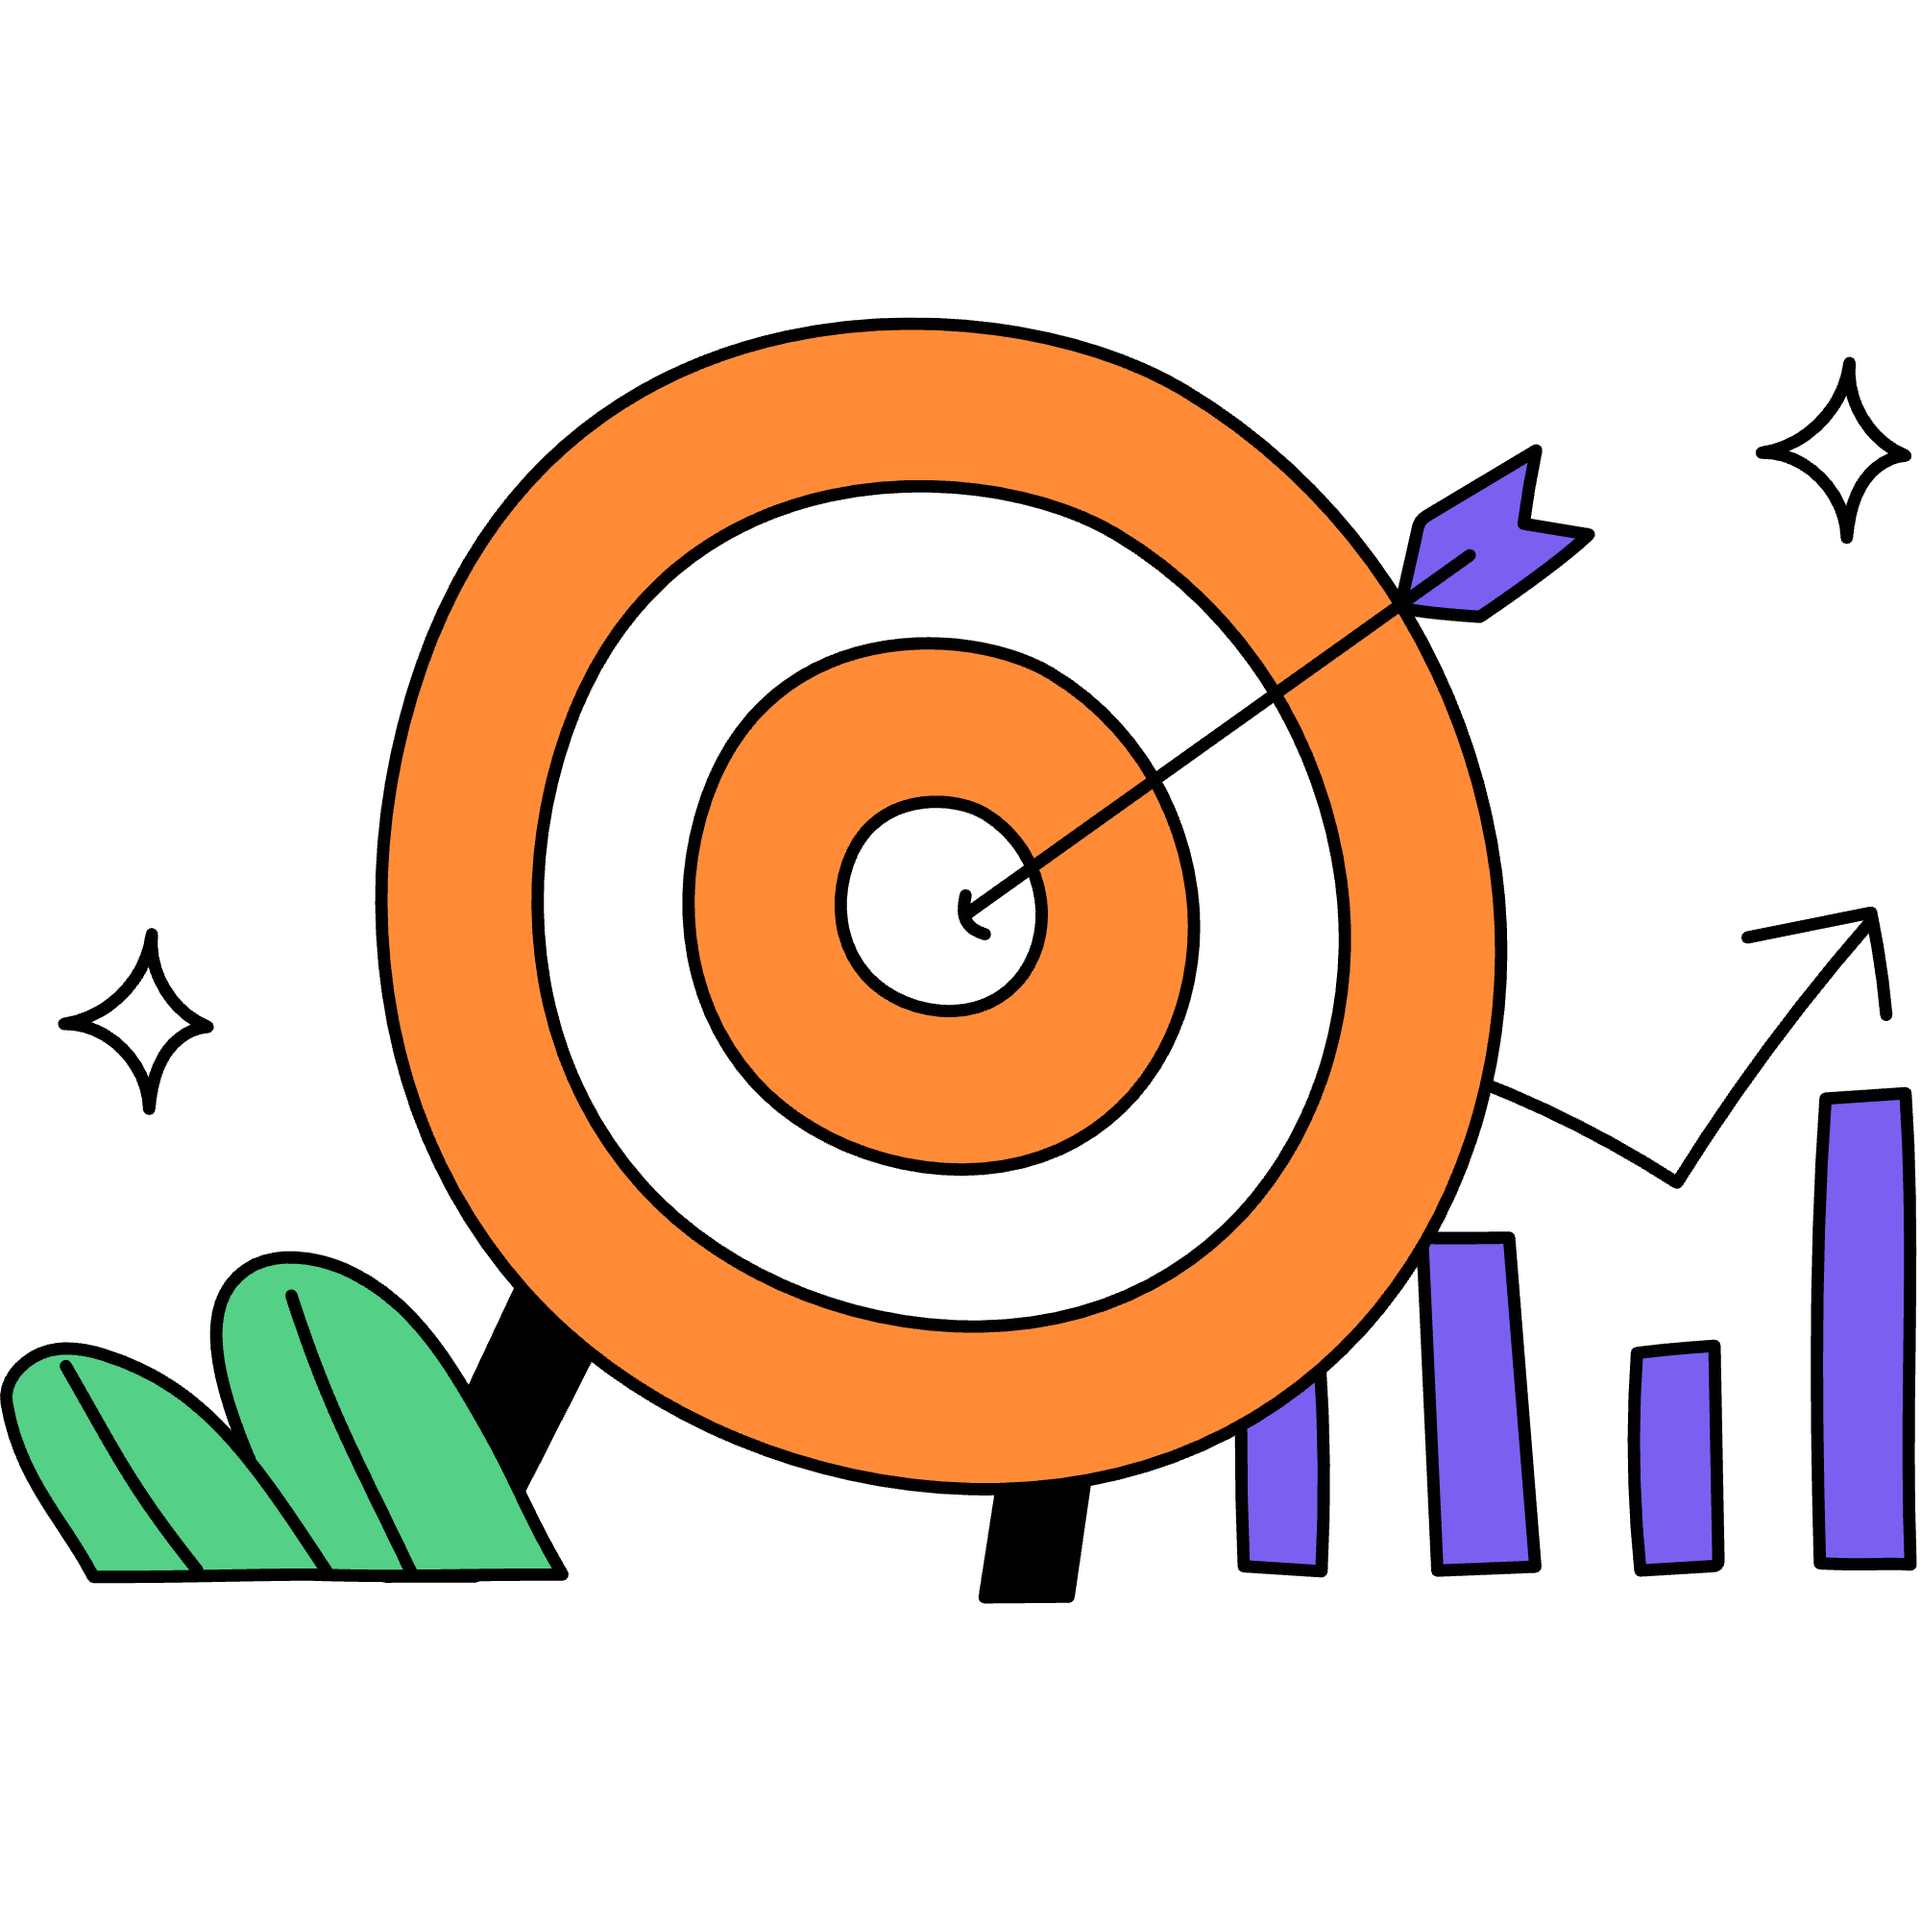
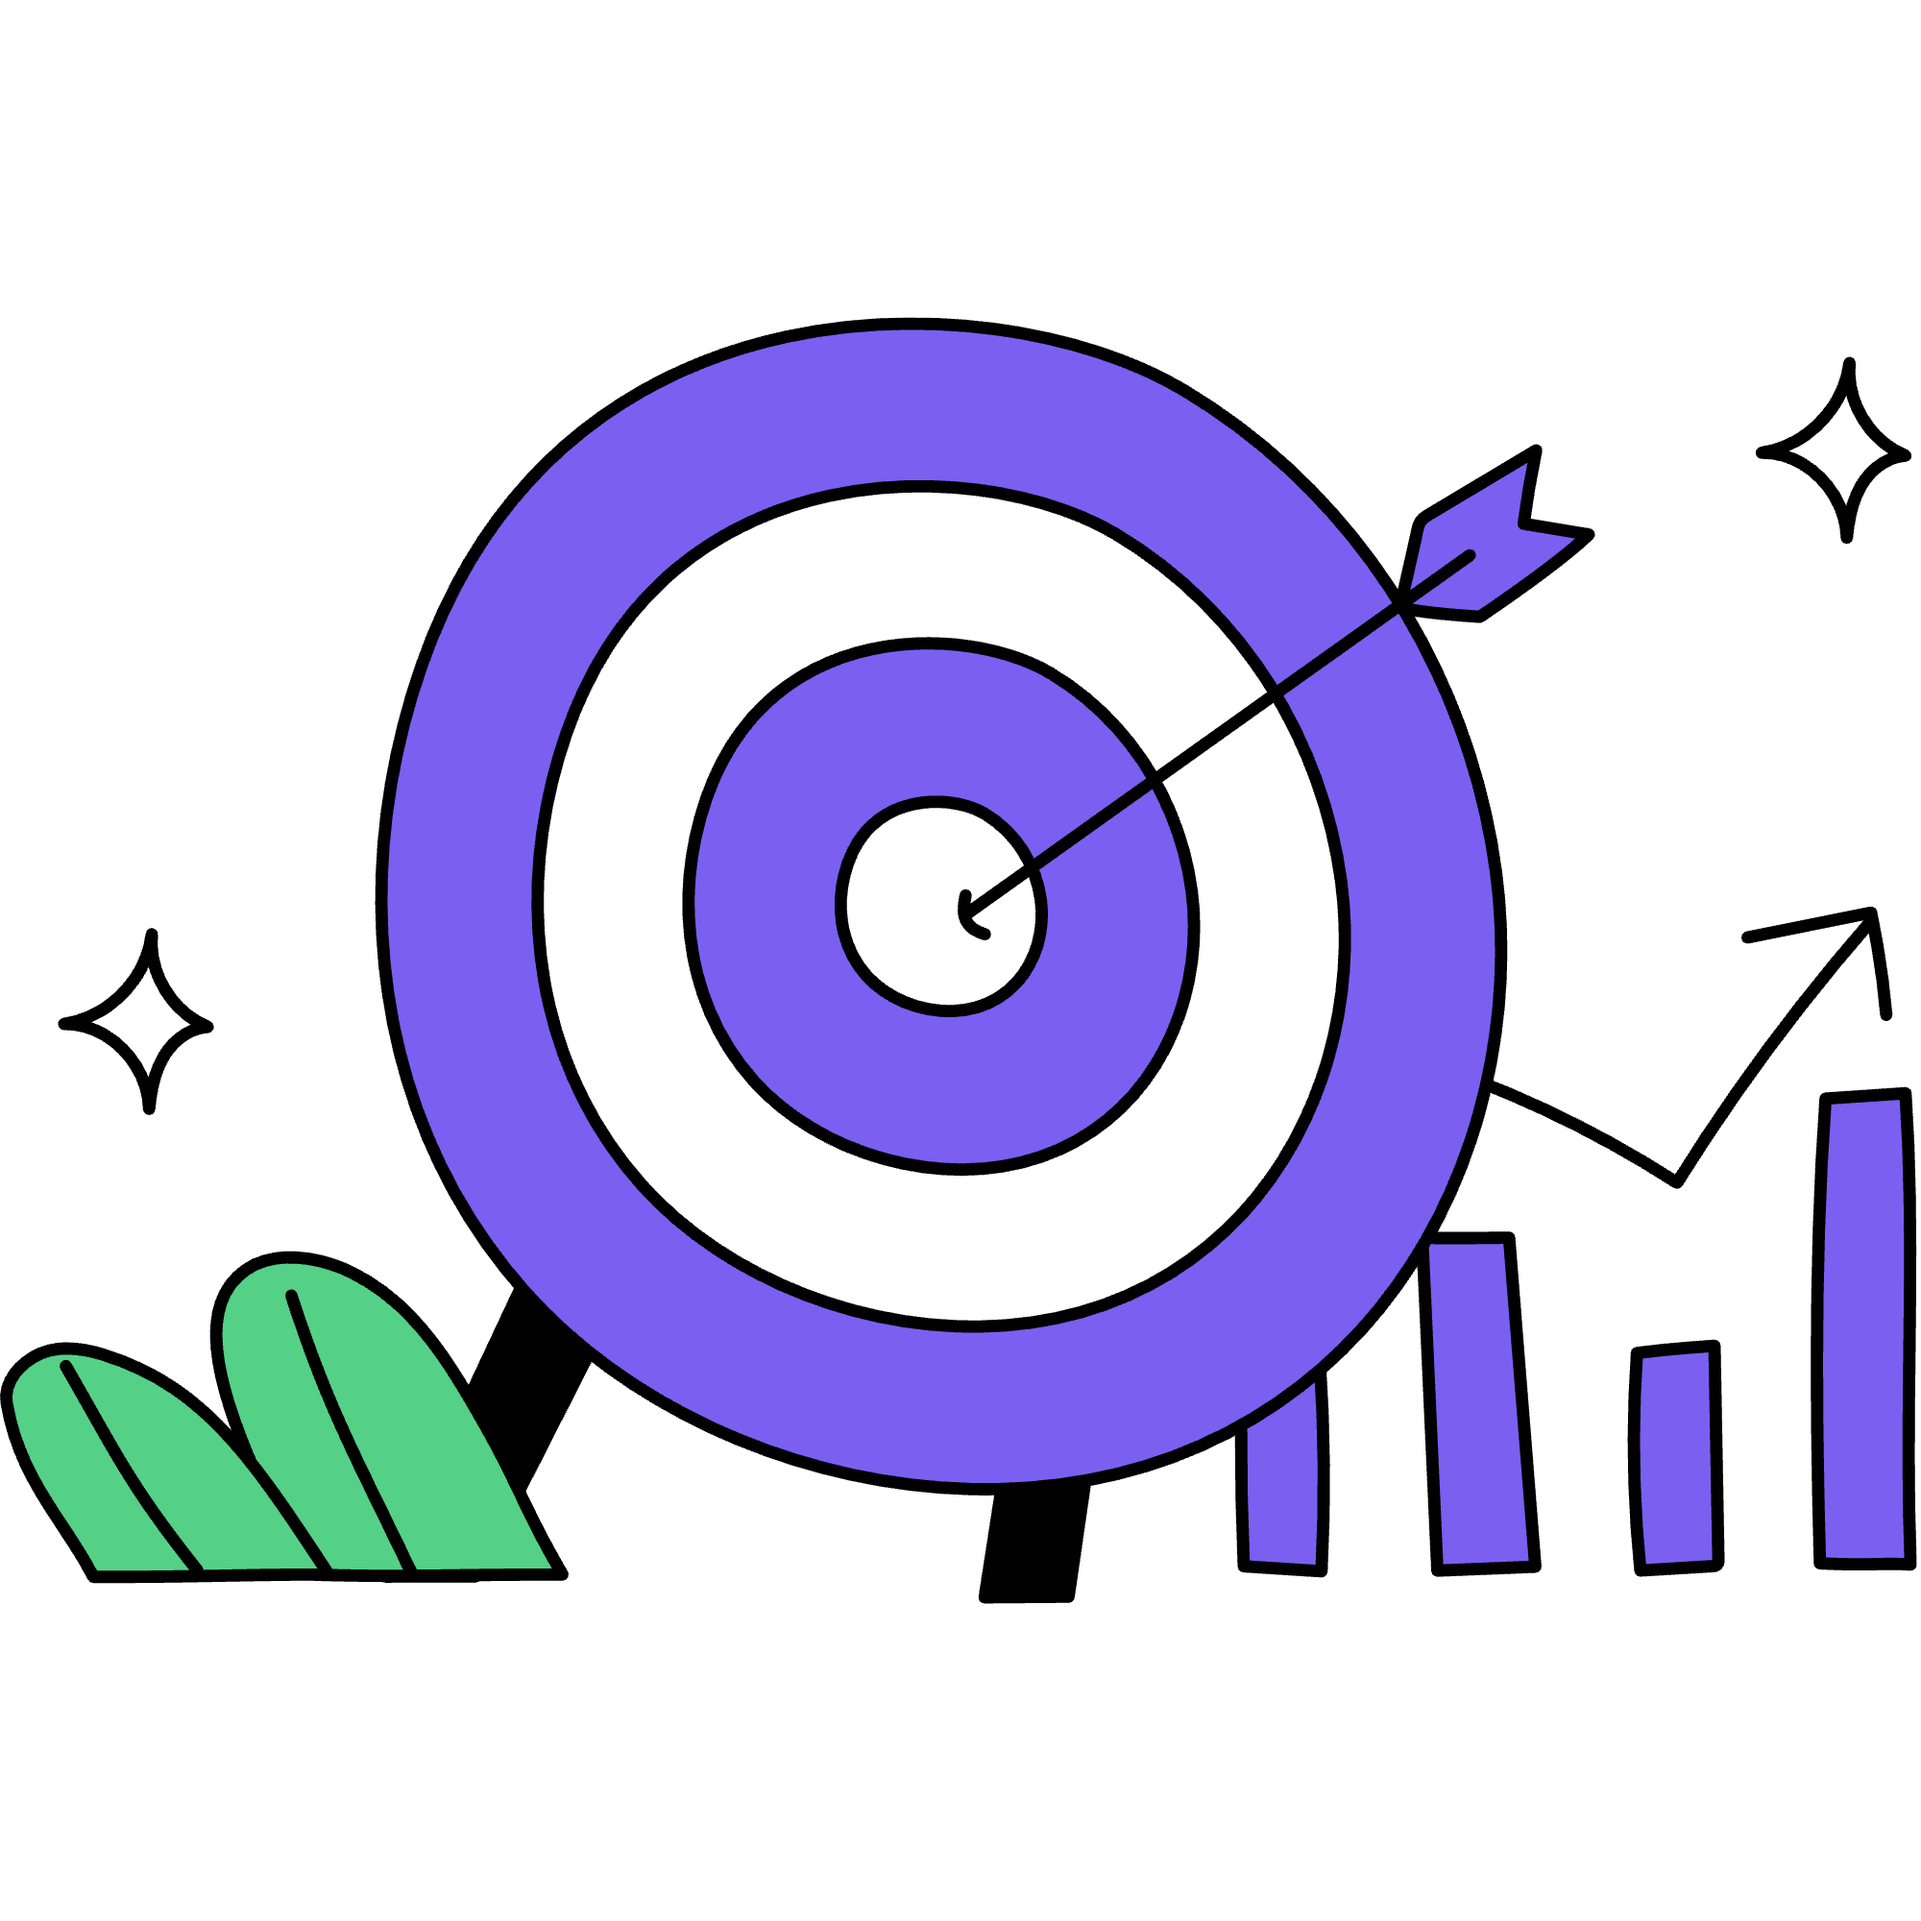
benefits section design complete

Changed region(s): [[0.186, 0.155, 0.775, 0.775], [0.341, 0.341, 0.62, 0.62]]

diff --git a/app/assets/stylesheets/components/_benefits.scss b/app/assets/stylesheets/components/_benefits.scss
@@ -1,0 +1,44 @@
+#benefits {
+  text-align: center;
+  padding: 70px 0;
+
+  h2 {
+    font-family: Roboto;
+    margin: 1rem 0 -2rem 0;
+    text-decoration: underline  #7B5FF1;
+
+  }
+}
+
+.benefits-list {
+  width: 100%;
+  display: flex;
+  justify-content: space-evenly;
+  align-items: center;
+
+  img {
+    height: 34rem;
+
+  }
+
+  ul {
+   margin: 0;
+    list-style: none;
+    text-align: left;
+    width: 40%;
+
+    li:nth-child(1) p{
+      margin-bottom: 2rem;
+      font-size: 19px;
+    }
+  }
+}
+
+.benefits-img {
+  width: 50%;
+}
+
+.fa-solid.fa-check {
+  font-size: 24px;
+  margin-right: 10px;
+}

diff --git a/app/assets/stylesheets/components/_index.scss b/app/assets/stylesheets/components/_index.scss
@@ -1,3 +1,4 @@
 @import "navbar";
 @import "header";
 @import "features";
+@import "benefits";
